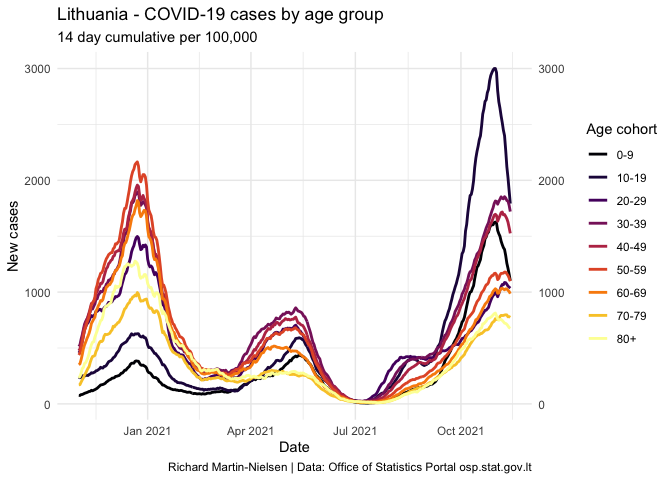
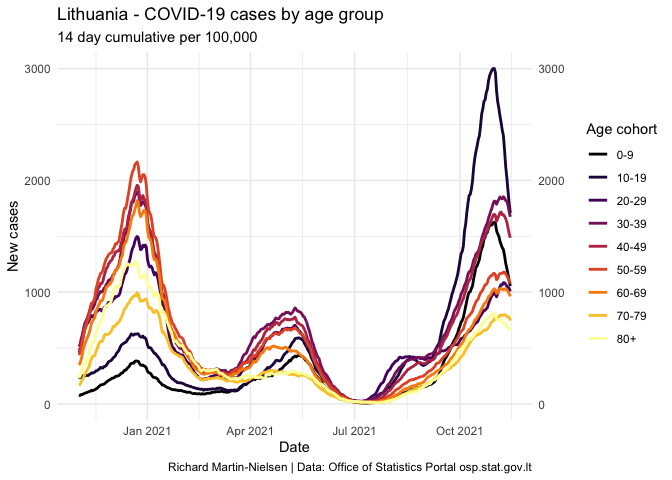
Render graph pages for all countries

diff --git a/docs/Lithuanian-age-breakdowns.md b/docs/Lithuanian-age-breakdowns.md
@@ -77,7 +77,7 @@ These charts are inspired by the narrow age cohort graph given by the
 OSP on their [pandemic illustrations
 page](https://osp.stat.gov.lt/pandemijos-iliustracijos):
 
-![](https://osp.stat.gov.lt/documents/10180/8555211/vaiku_atvejai_per14d_100k_20211114.png)
+![](https://osp.stat.gov.lt/documents/10180/8555211/vaiku_atvejai_per14d_100k_20211115.png)
 
 Because the age cohorts given in the two sources used do not align, when
 calculating COVID rates relative to age cohorts, a smaller number of
